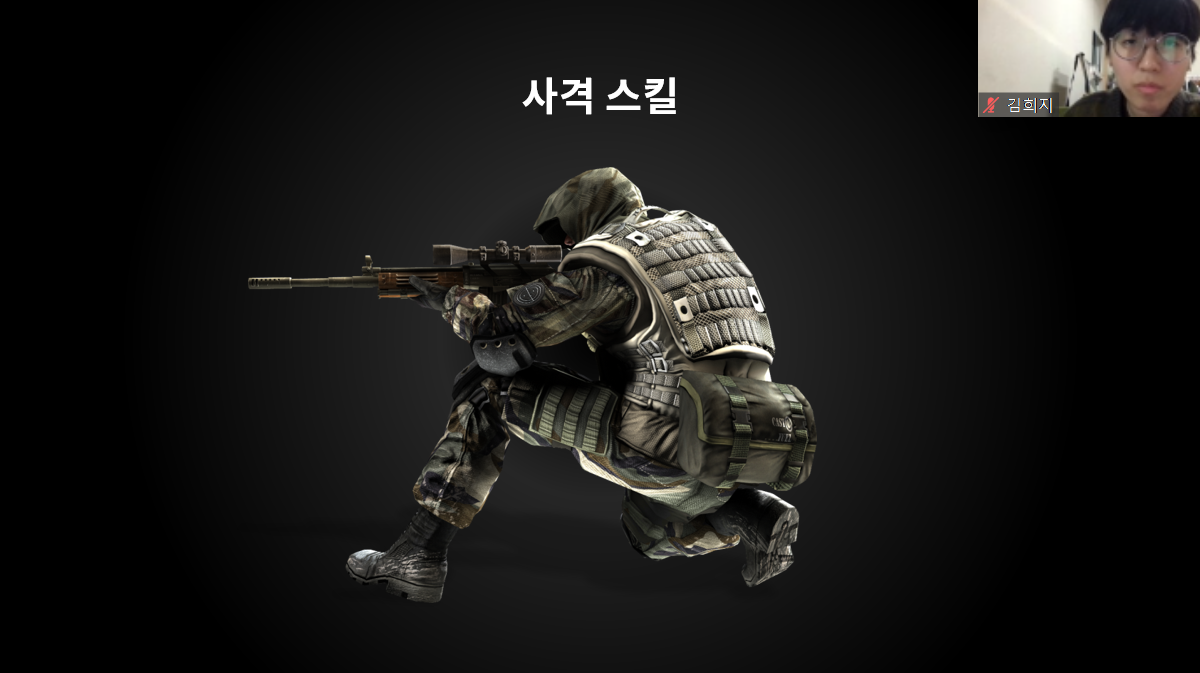
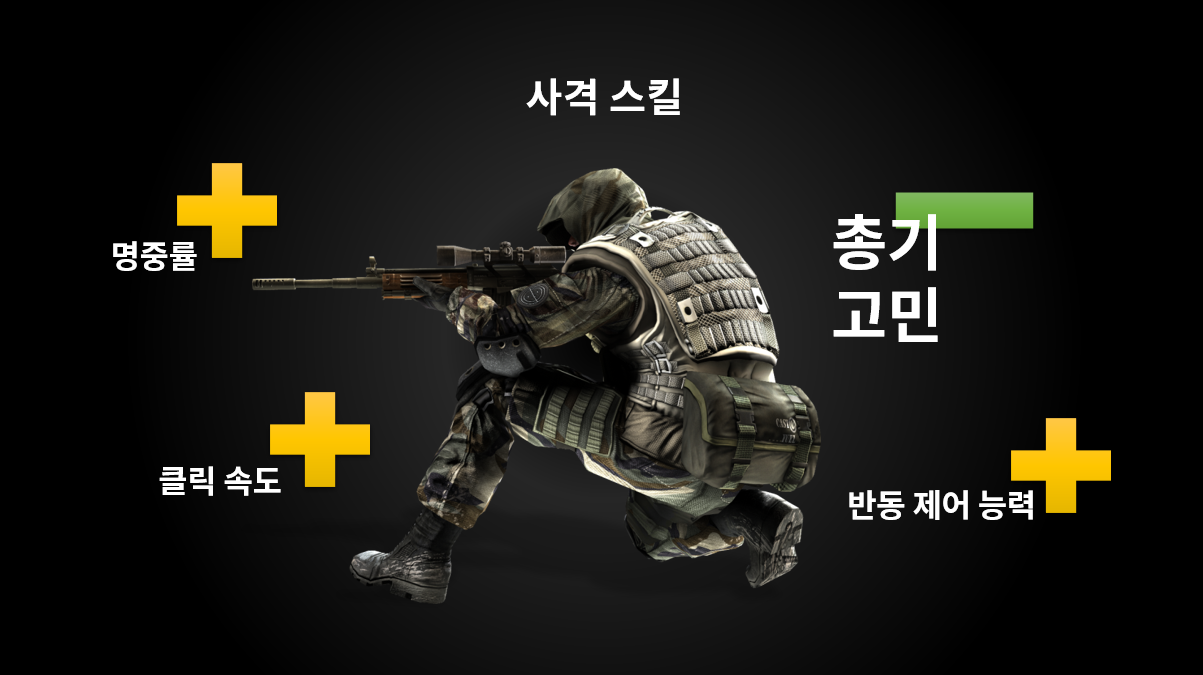
intro 2

diff --git a/intro2.html b/intro2.html
@@ -41,13 +41,20 @@
 			<div class="graphic-item"><img class="scene-img" src="img/자기장.gif" alt=""></div>
 			<div class="graphic-item" data-action="birdFlies2">
 				<img class="bird" src="img/후라이팬.png" alt="뭐넣냐">
-				<img class="scene-img" src="img/ssi.png" alt="">
+				<img class="scene-img" src="img/in3.PNG" alt="">
 			</div>
-			<div class="graphic-item"><img class="scene-img" src="img/hh.PNG" alt=""></div>
-			<div class="graphic-item"><img class="scene-img" src="img/git.png" alt=""></div>
-			<div class="graphic-item"><img class="scene-img" src="img/is.png" alt=""></div>
-			<div class="graphic-item"><img class="scene-img" src="img/no.png" alt="노션사진"></div>
-		</div>
+			<div class="graphic-item"><img class="scene-img" src="img/in5.PNG" alt=""></div>
+			<div class="graphic-item"><img class="scene-img" src="img/in6.PNG" alt=""></div>
+			<div class="graphic-item"><img class="scene-img" src="img/in7.png" alt=""></div>
+            <div class="graphic-item"><img class="scene-img" src="img/in8.png" alt=""></div>
+            <div class="graphic-item"><img class="scene-img" src="img/in9.png" alt=""></div>
+            <div class="graphic-item"><img class="scene-img" src="img/in10.png" alt=""></div>
+            
+        </div>
+       
+
+        
+        
 		<div class="scroll-text global-width">
 			<div class="step">
 				<p>
@@ -84,34 +91,72 @@
 				<p>
                     배틀 그라운드에서 우승 하려면, 상대방을 많이 kill 해야 합니다.,<br>
                      일종의 '사격 스킬'이 중요하죠.
+                     사격 스킬은 명중률이 높거나 총기의 반동을 잘 제어하는 것일 수도 있고, <Br>
+                    빠르게 클릭하는 것일 수도 있습니다. 대부분 우승을 위해 갈고 닦는 능력입니다. <br>
+                    그런데 사람들이 놓치는 것이 있습니다.<br>
+                    전쟁터에선 고민할 시간이 없잖아요? 👀 <br>
+                     그런데, 총에 대한 고민이라도 덜 수 있다면! 얼마나 좋을까요!
 					
 				</p>
 			</div>
 			<div class="step">
 				<p>
-                    사격 스킬은 명중률이 높거나 총기의 반동을 잘 제어하는 것일 수도 있고, <Br>
-                        빠르게 클릭하는 것일 수도 있습니다. 대부분 우승을 위해 갈고 닦는 능력입니다. <br>
-                        그런데 사람들이 놓치는 것이 있습니다.
+                    선수들은 무기를 마주칠 때마다, "이 총 주울까, 저 총 주울까?" 고민하게 됩니다. <Br>
+                    게다가 배틀그라운드에는 38가지나 되는 총이 있거든요.<Br>
+                     내게 어떤 총이 맞는지 알면 고민거리가 줄어들고, 한 발이라도 더 쏠 수 있겠죠.<br>
+                      나에게 맞는 총을 알려주는 지표를 만들었습니다. 
+
+
 				</p>
 			</div>
 			<div class="step">
 				<p>
-                    전쟁터에선 고민할 시간이 없잖아요? 👀  그런데, 총에 대한 고민이라도 덜 수 있다면! 얼마나 좋을까요!
+                    저희는 Active shot rate(즉, 명중률)과 damage per active shot (한 발당 데미지)가 높을수록 사격 스킬을 보여준다고 정의했습니다.<br>
+                    정의한 두 지표를 넣어 만든 선수별 사격스킬 지표를 설명해드리겠습니다<br>
+                    Active shot rate과 damage per active shot을 구하기 위해 선수별로 가장 많이 사용한 총과 획득한 총의 BEST3<br>
+                    우선 선수별 사격스킬 지표로 EJ선수를 살펴볼게요.<br>
+                    아프리카프릭스의 EJ 선수를 봅시다! <br>
+                    
                     
 				</p>
 			</div>
 			<div class="step">
 				<p>
-					깃헙 이슈는 특히 애용한 기능인데, 이를 통해 작업의 액션플랜 정리, 역할 배분, 코멘트를 통한 관련 사항 저장 등에 유용하게 사용했습니다.
+                    <b><h2>선수별 사격스킬</h2></b>
+                    선수별로 총에대한 사격스킬을 확인해볼 수 있는 지표입니다.<br>
+                    부위별 명중률과 1발당 평균 데미지를 볼 수 있어요.
 				</p>
 			</div>
 			<div class="step">
 				<p>
-                    <b><h2>우리팀의 다이어리, 위키, 칸반이 되어준 노션.</h2></b>
+                    <b><h2>무기별 사격스킬 평균과의 비교</h2></b>
+                    선택한 선수의 특정 무기의 명중률과 1발당 데미지를
+                    전체평균과 비교할 수 있어요<br>
+                    내가 쓴느 무기를 다른 선수들보다 얼마나 잘쓰는지 확인할 수 있습니다.
 						
                    
 				</p>
-			</div>
+            </div>
+            <div class="step">
+				<p>
+                    <b><h2>어딜 가야 그 총을 주울 확률이 높아질까? </h2></b>
+                    넓은 지역에서 원하는 총을 주워줄 확률이 높은 곳을 제안합니다.<Br>
+
+						
+                   
+				</p>
+            </div>
+            <div class="step">
+				<p>
+                    <b><h2>어때. 우승할 확률이 높아지지 않을까?</h2></b>
+                    나에게 잘 맞는 총이 무엇이고,<br>
+                    내가 선택한 총은 명중률이 좋은지<br>
+                    그 총은 어디에서 잘 발견되는지를 알 수 있으니까요!
+						
+                   
+				</p>
+            </div>
+            
 		</div>
 	</section>
 	<section class="normal-content_global-width">
